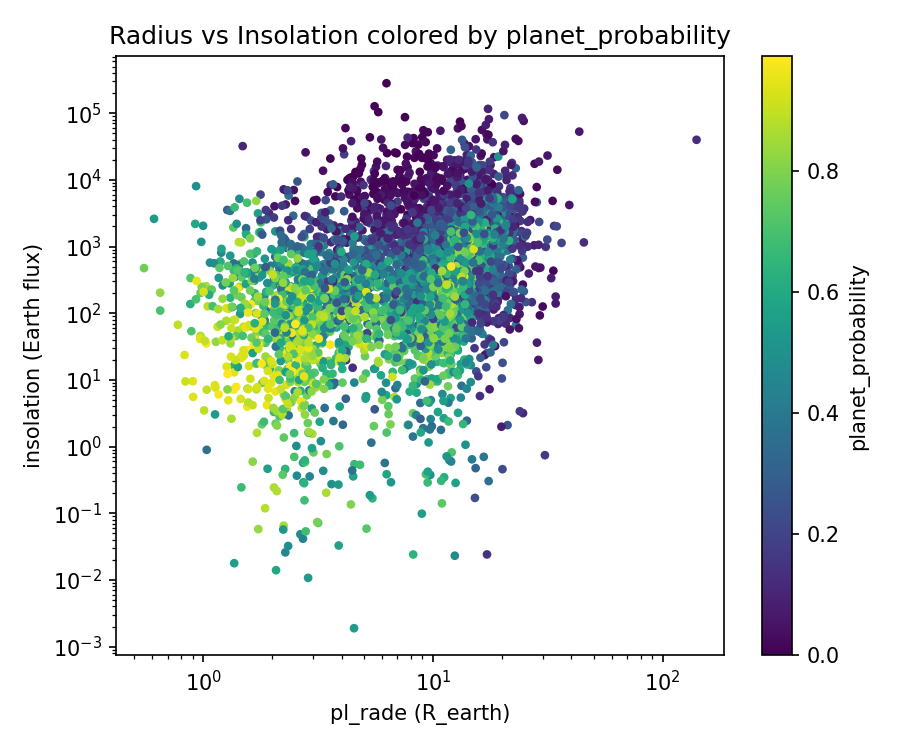
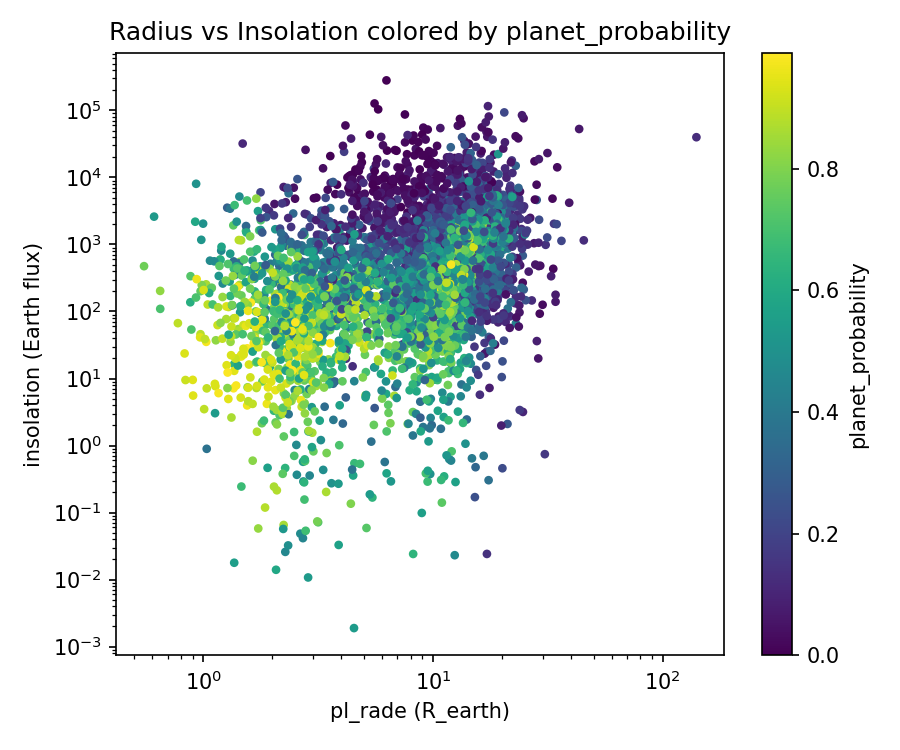
Fix top20 plot: show pre-penalty scores correctly

diff --git a/code/analyze_priority.py b/code/analyze_priority.py
@@ -169,7 +169,9 @@ def main():
     cand['contrib_period'] = short_period_norm * w['period']
     max_missing = feature_ranges.get('max_missing',5)
     cand['missing_penalty'] = 0.05 * (missing / max_missing)
-    cand['priority_score_calc'] = cand['contrib_planet'] + cand['contrib_science'] + cand['contrib_brightness'] + cand['contrib_period'] - cand['missing_penalty']
+    # compute pre-penalty and post-penalty scores
+    cand['priority_score_before_penalty'] = cand['contrib_planet'] + cand['contrib_science'] + cand['contrib_brightness'] + cand['contrib_period']
+    cand['priority_score_calc'] = cand['priority_score_before_penalty'] - cand['missing_penalty']
     cand['priority_score_calc'] = np.clip(cand['priority_score_calc'], 0.0, 1.0)
 
     top20 = cand.sort_values('priority_score_calc', ascending=False).head(20).copy()
@@ -183,8 +185,8 @@ def main():
     p2 = plt.bar(inds, top20['contrib_science'], bottom=top20['contrib_planet'], label='science_interest')
     p3 = plt.bar(inds, top20['contrib_brightness'], bottom=top20['contrib_planet']+top20['contrib_science'], label='brightness')
     p4 = plt.bar(inds, top20['contrib_period'], bottom=top20['contrib_planet']+top20['contrib_science']+top20['contrib_brightness'], label='period')
-    # subtract penalty as red marker
-    plt.scatter(inds, top20['priority_score_calc'] - top20['missing_penalty'], color='red', zorder=5, label='score (before penalty)')
+    # plot pre-penalty score as red marker (true "before penalty")
+    plt.scatter(inds, top20['priority_score_before_penalty'], color='red', zorder=5, label='score (before penalty)')
     plt.xticks(inds, labels, rotation=90)
     plt.ylabel('Contribution to priority score')
     plt.title('Top20 priority contributions')

diff --git a/README.md b/README.md
@@ -132,4 +132,13 @@ python code/compute_priority.py
 ---
 
 
+**图表解读**
+
+- **校准曲线（Calibration curve）**: 见 [processed/priority_outputs/calibration_curve.png](processed/priority_outputs/calibration_curve.png)。曲线总体靠近对角线，说明模型输出的 `planet_probability` 与观测到的正类频率相对一致；在极低概率区间略显保守（预测概率稍高于观测频率），在中等概率区间存在小幅偏差。总体校准可接受，但若需要严格概率解释（例如用于贝叶斯决策或阈值敏感的调度），建议在部署前使用 `CalibratedClassifierCV` 或 Isotonic/Platt 标定进行微调。
+
+- **半径 vs 入射通量散点（Radius vs Insolation）**: 见 [processed/priority_outputs/radius_insolation_scatter.png](processed/priority_outputs/radius_insolation_scatter.png)。横轴为行星半径（R_earth，对数尺度），纵轴为入射通量（Earth flux，对数尺度），点颜色表示 `planet_probability`。图中高概率（黄色）点集中在小到中等半径且入射通量为弱到中等值的区域，说明模型倾向于把较接近地球半径且入射通量适中的候选判为更可能是真行星；超大半径或极端入射通量的样本概率普遍较低。这与训练样本中类地/小型候选更具典型特征一致，也支持 `science_interest` 将地球相似性作为加分项的设计决策。
+
+- **Top20 权重分解（Top20 contributions）**: 见 [processed/priority_outputs/top20_contributions.png](processed/priority_outputs/top20_contributions.png)。堆积条形图展示了前 20 名候选的 `priority_score` 分解：蓝色（`planet_probability`）为主导贡献，橙色为 `science_interest`，绿色为 `brightness`，红色为 `period`；红点表示合成前的分数（未减去缺失惩罚）。结论：优先级主要由模型概率驱动（即置信度高的候选优先），`science_interest` 经常是次要但稳定的加分来源，`brightness` 和 `period` 提供辅助调整。若希望提升科学价值导向，可在 `code/compute_priority.py` 中提高 `science_interest` 的系数，并重新运行管线以观察排序变化。
+
+
 